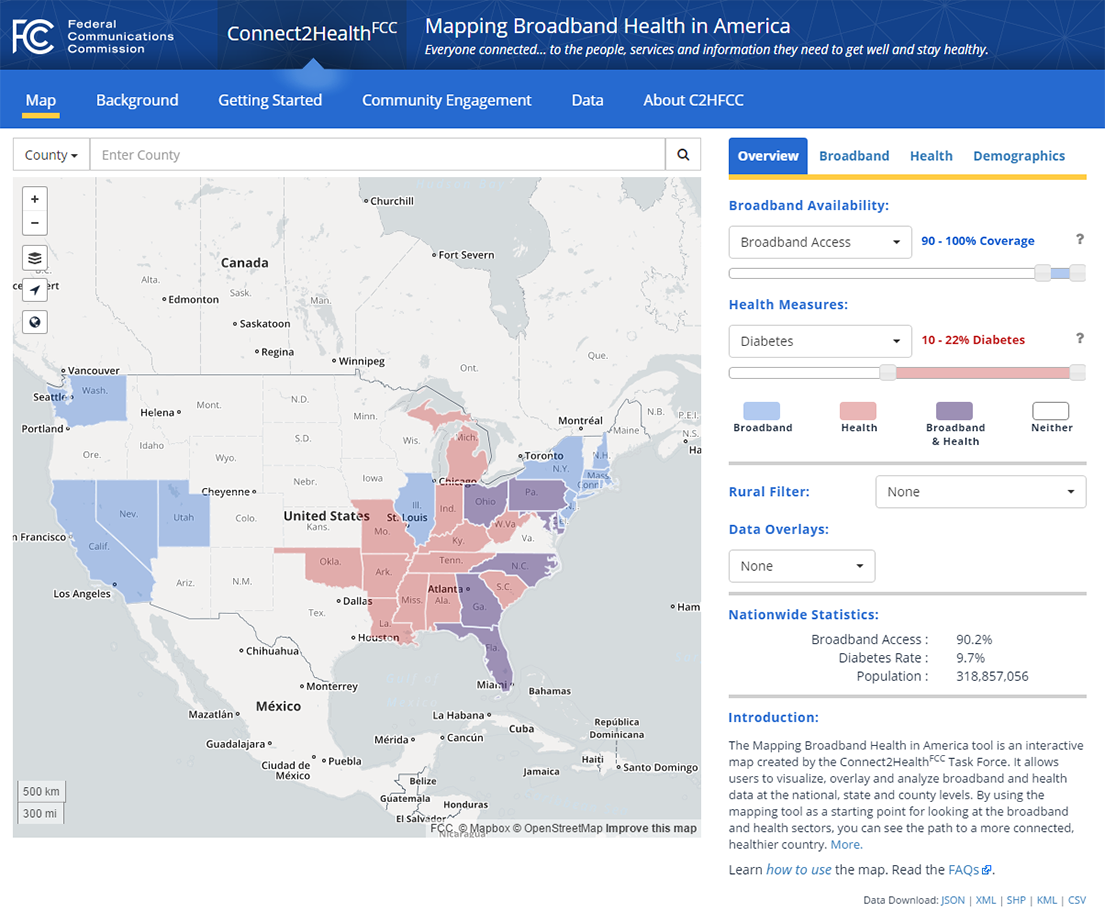
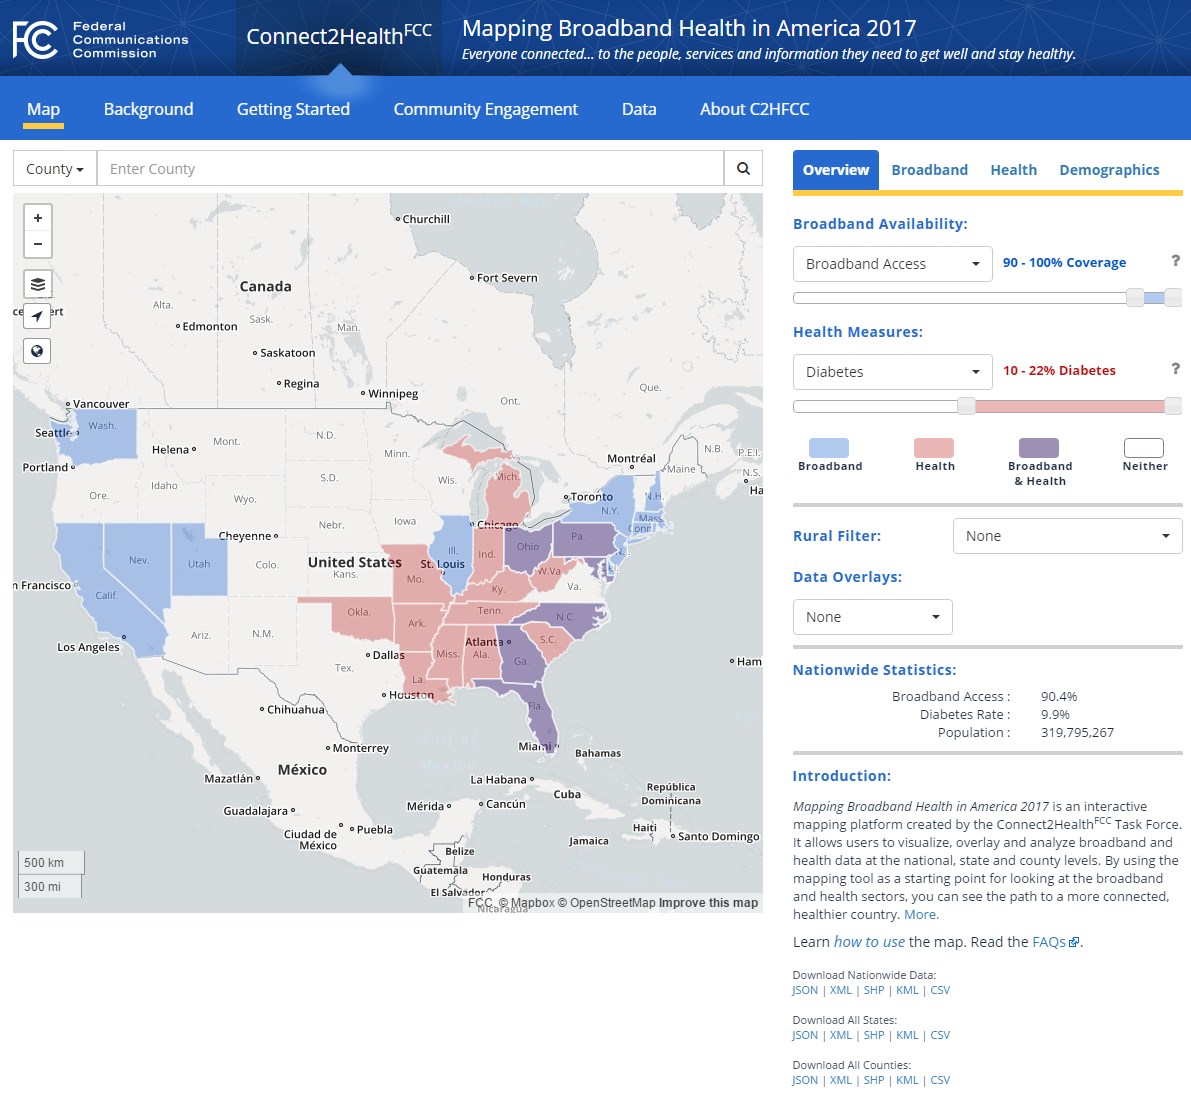
updates for 05/2017 content

Changed region(s): [[0.0, 0.0, 1.0, 1.0], [0.9846, 0.2124, 1.0, 0.2427]]

diff --git a/README.md b/README.md
@@ -1,6 +1,6 @@
 Connect2HealthFCC
 ======
-The **Connect2HealthFCC** Task Force’s Mapping Broadband Health in America tool allows users to visualize, overlay and analyze broadband and health data at the national, state and county levels – informing policy prescriptions and investment decisions.
+The Connect2HealthFCC Task Force’s mapping platform *Mapping Broadband Health in America 2017* allows users to visualize, overlay and analyze broadband and health data at the national, state and county levels – informing policy prescriptions and investment decisions.
 
 The maps are an interactive experience, showing various pictures of the intersection between connectivity and health for every county in the United States. Users can generate customized maps that show broadband access, adoption and speed alongside various health measures (e.g., obesity, diabetes and physician access) in urban and rural areas.
 
@@ -20,7 +20,7 @@ To run the site locally on your own computer (most helpful for previewing your o
 3. Start the local server, then visit `http://localhost:8080/client/index.html` in your browser to preview the site. You may need to change the port number depending on how your local server is setup.
 
 ## Download 
-* [Version 1.0.0](https://github.com/FCC/c2hgis-web/archive/v1.0.0.zip)
+* [Version 2.0.0](https://github.com/FCC/c2hgis-web/archive/v2.0.0.zip)
 
 ## Contact
 * e-mail: engagec2h@fcc.gov
